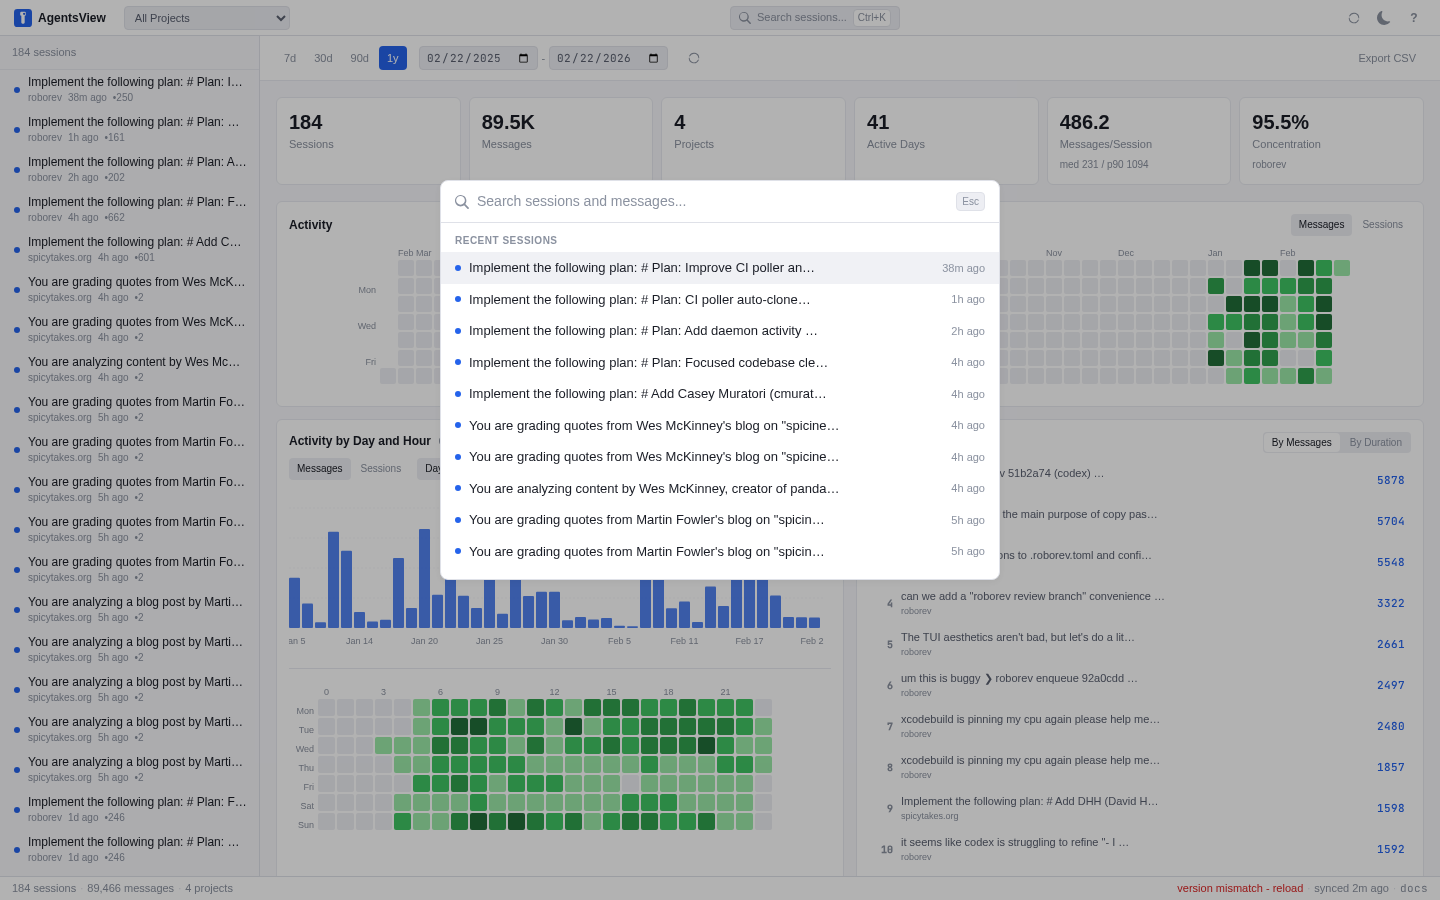
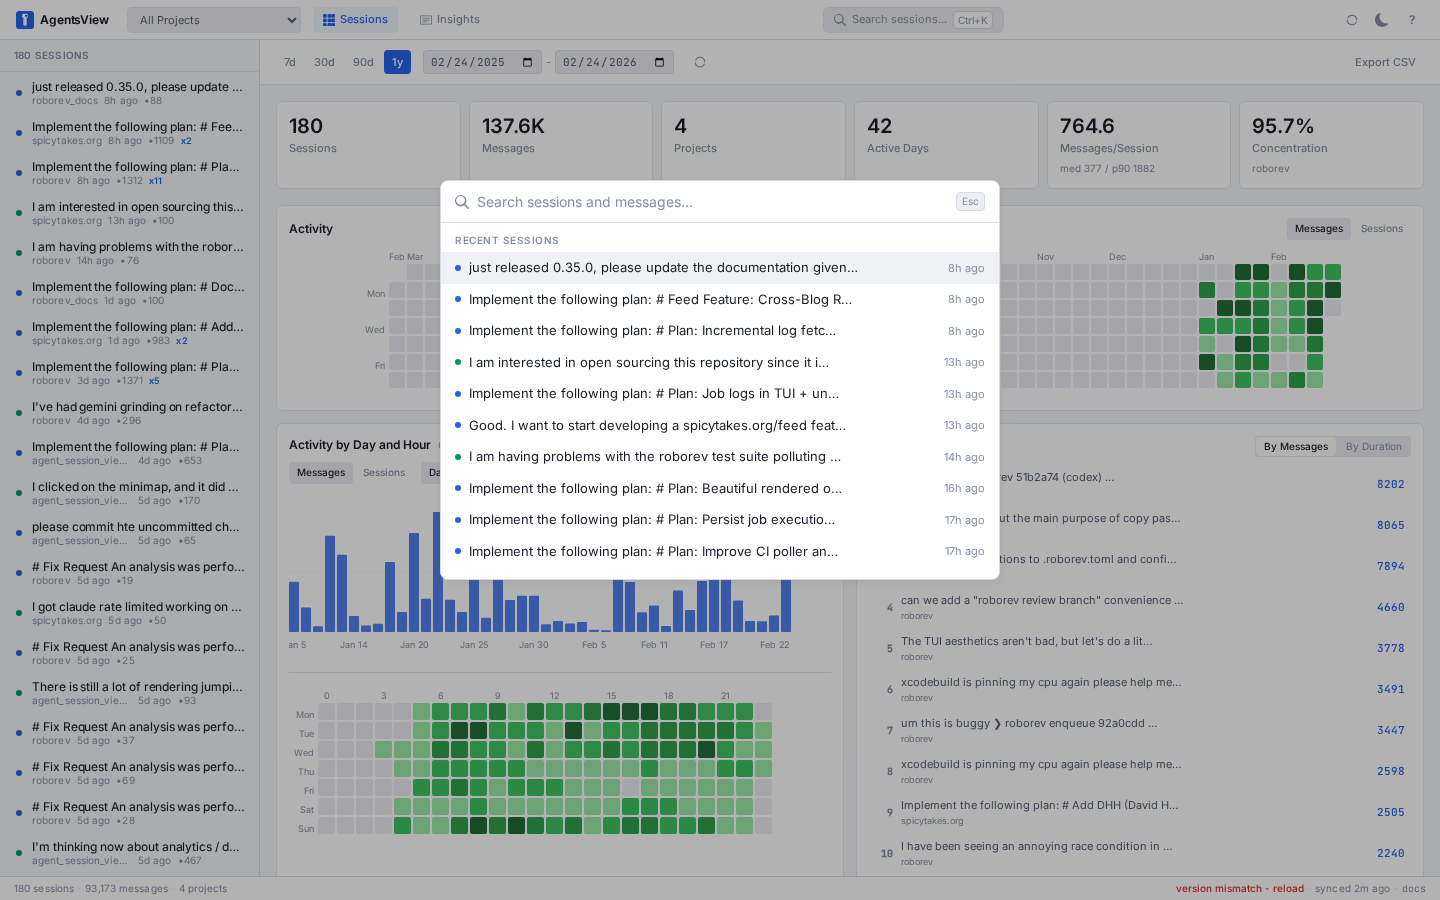
Document 0.4.0 features: Session Insights, tool metadata (#2)
* Add Insights documentation and screenshot pipeline

- Add AI-Powered Insights as first feature card on index
- Create dedicated insights.mdx page with full feature docs
- Add Insights to sidebar navigation
- Seed two controlled insights in extract-db.sh for screenshots
- Add Playwright tests for Insights page screenshots
- Document structured tool metadata in usage.mdx tool blocks section

* Rename to Session Insights, move below Usage in sidebar

Add a Session Insights section to the Usage Guide that directs
users to the dedicated page.

* Update screenshots including new Insights pages

---------

diff --git a/screenshots/tests/screenshots.spec.ts b/screenshots/tests/screenshots.spec.ts
@@ -440,6 +440,52 @@ test.describe('Modals', () => {
   });
 });
 
+// ── Insights ────────────────────────────────────────────
+
+test.describe('Insights', () => {
+  test.beforeEach(async ({ page }) => {
+    await page.setViewportSize(FULL);
+    await waitForApp(page);
+  });
+
+  async function navigateToInsights(page: Page) {
+    const navBtn = page.locator('.nav-btn', { hasText: 'Insights' });
+    await navBtn.click();
+    await page.waitForSelector('.insights-page', {
+      timeout: 10_000,
+    });
+    await page.waitForTimeout(1000);
+  }
+
+  test('full insights page', async ({ page }) => {
+    await navigateToInsights(page);
+
+    // Select the first completed insight (weekly analysis)
+    const rows = page.locator('.insight-row');
+    if (await rows.count() > 0) {
+      await rows.first().click();
+      await page.waitForTimeout(500);
+    }
+    await snap(page, 'insights');
+  });
+
+  test('insight content', async ({ page }) => {
+    await navigateToInsights(page);
+
+    // Select the first insight to show content
+    const rows = page.locator('.insight-row');
+    if (await rows.count() > 0) {
+      await rows.first().click();
+      await page.waitForTimeout(500);
+    }
+
+    const content = page.locator('.content-panel');
+    if (await content.count() > 0) {
+      await snapEl(content, 'insight-content');
+    }
+  });
+});
+
 // ── Themes ──────────────────────────────────────────────
 
 test.describe('Themes', () => {
